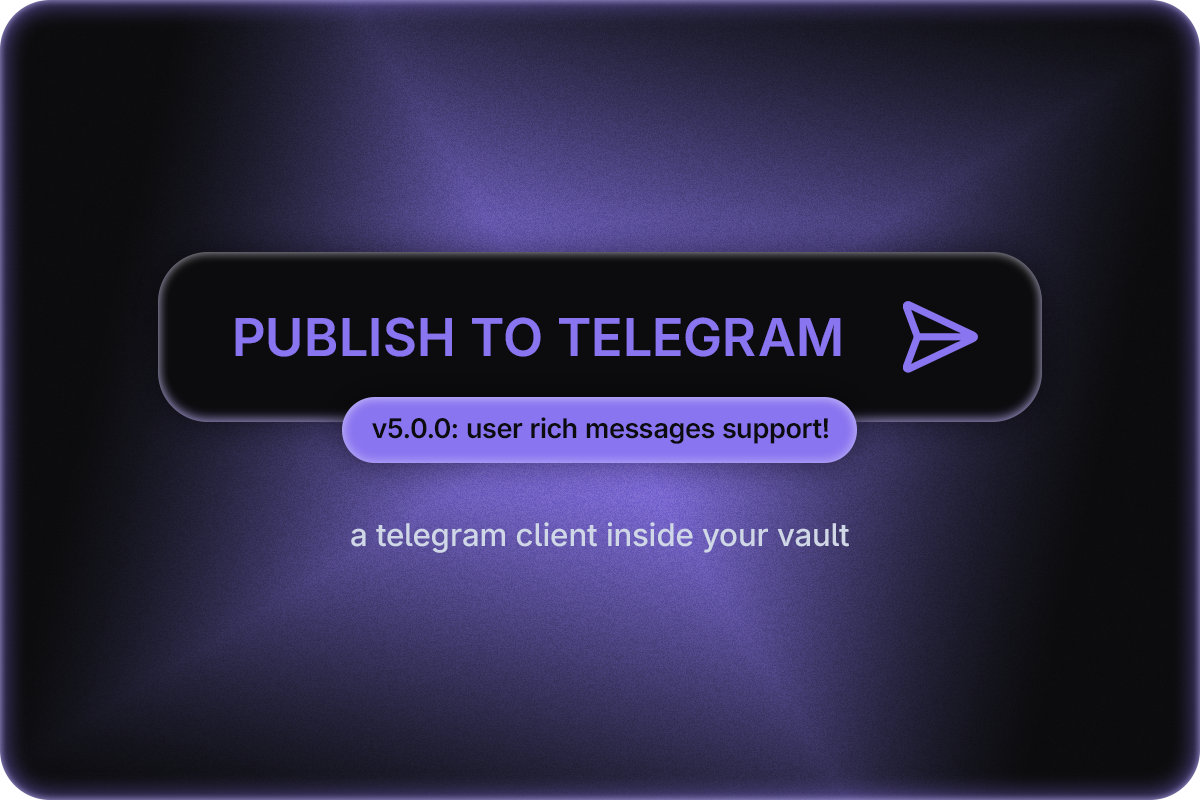
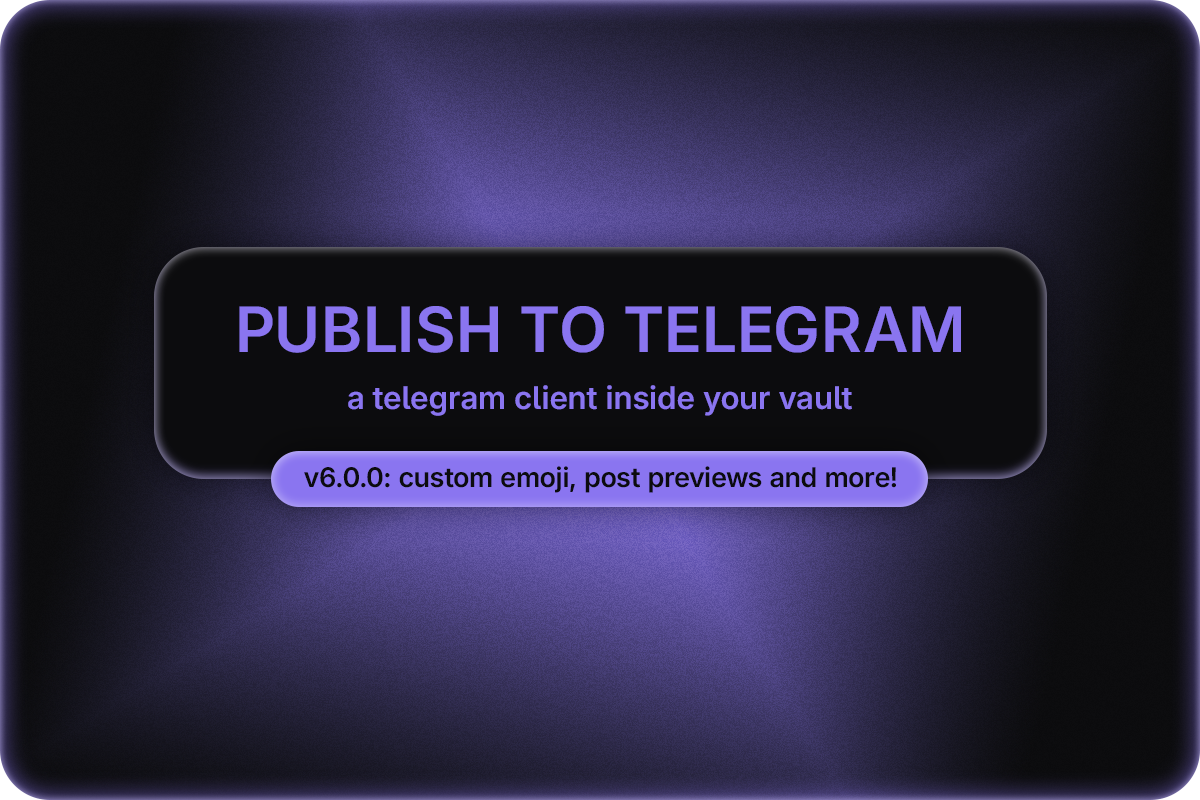
Demo screenshot update

Changed region(s): [[0.1233, 0.2812, 0.8942, 0.6875]]

diff --git a/README_RU.md b/README_RU.md
@@ -5,7 +5,7 @@
 Данный плагин позволяет публиковать ваши заметки напрямую в каналы, группы и личные сообщения в Telegram c разными пресетами. Поддерживается стандартное форматирование Telegram, rich-text форматирование, а также вложения медиа и документов. Расширенные настройки публикации позволяют делать запланированные посты, редактировать посты и комментарии, и не только.
 
 <div align="center">
-  <img src="media/1-cover.png"width="100%" /> <img src="media/2-general.png"width="32%" /> <img src="media/3-presets.png"width="32%" /> <img src="media/4-advanced.png"width="32%" />
+  <img src="media/1-cover.png"width="100%" />
 </div>
 
 <div align="center">

diff --git a/README.md b/README.md
@@ -5,7 +5,7 @@ English | [Русский](https://github.com/pan4ratte/obsidian-publish-to-tele
 This plugin allows you to post notes directly to Telegram channels, groups and personal messages with different presets. Standard Telegram formatting, rich-text formatting, as well as media and document attachments are supported. Advanced publishing settings allow you to schedule posts, edit posts and comments and more.
 
 <div align="center">
-  <img src="media/1-cover.png"width="100%" /> <img src="media/2-general.png"width="32%" /> <img src="media/3-presets.png"width="32%" /> <img src="media/4-advanced.png"width="32%" />
+  <img src="media/1-cover.png"width="100%" />
 </div>
 
 <div align="center">
